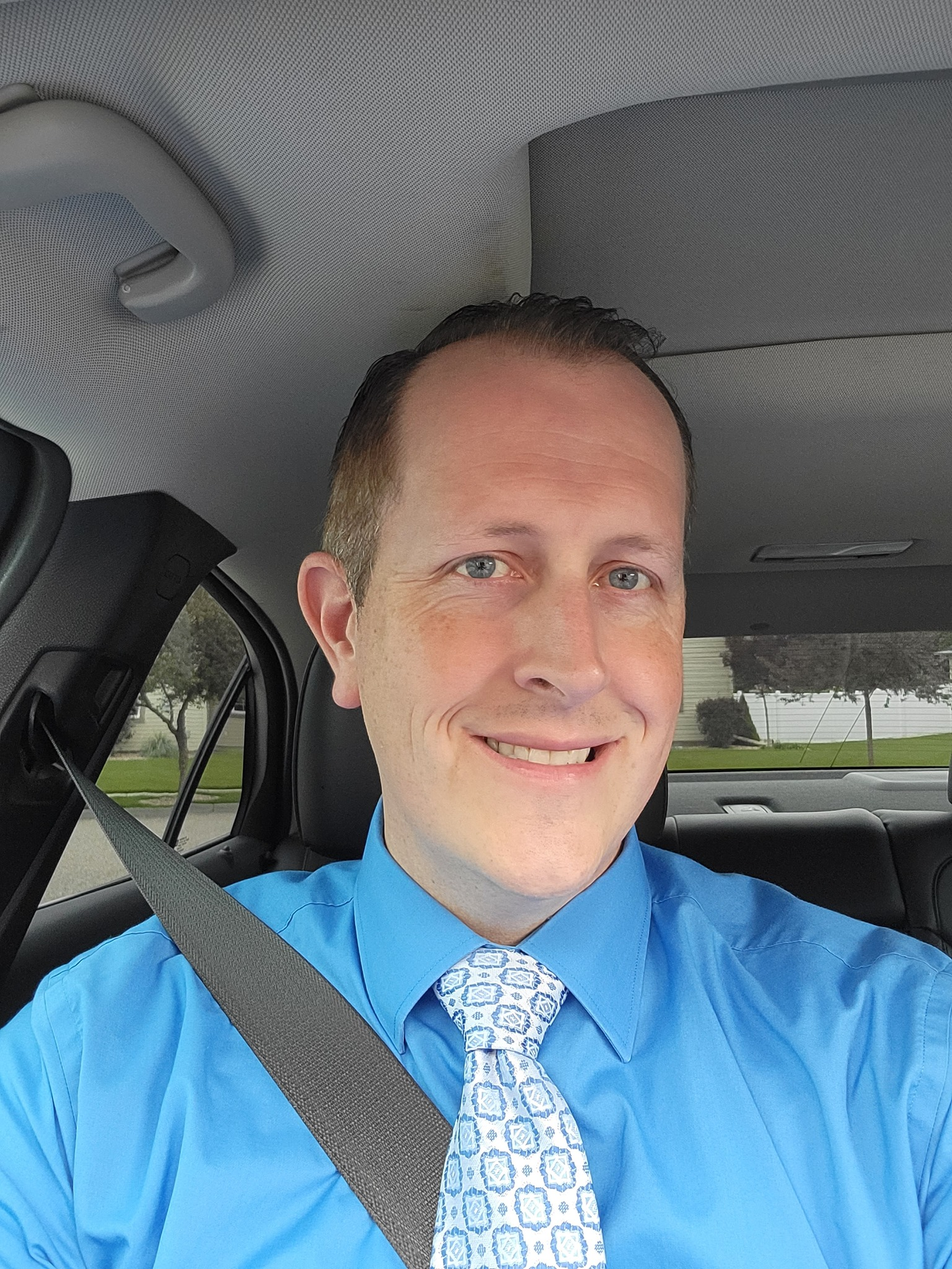
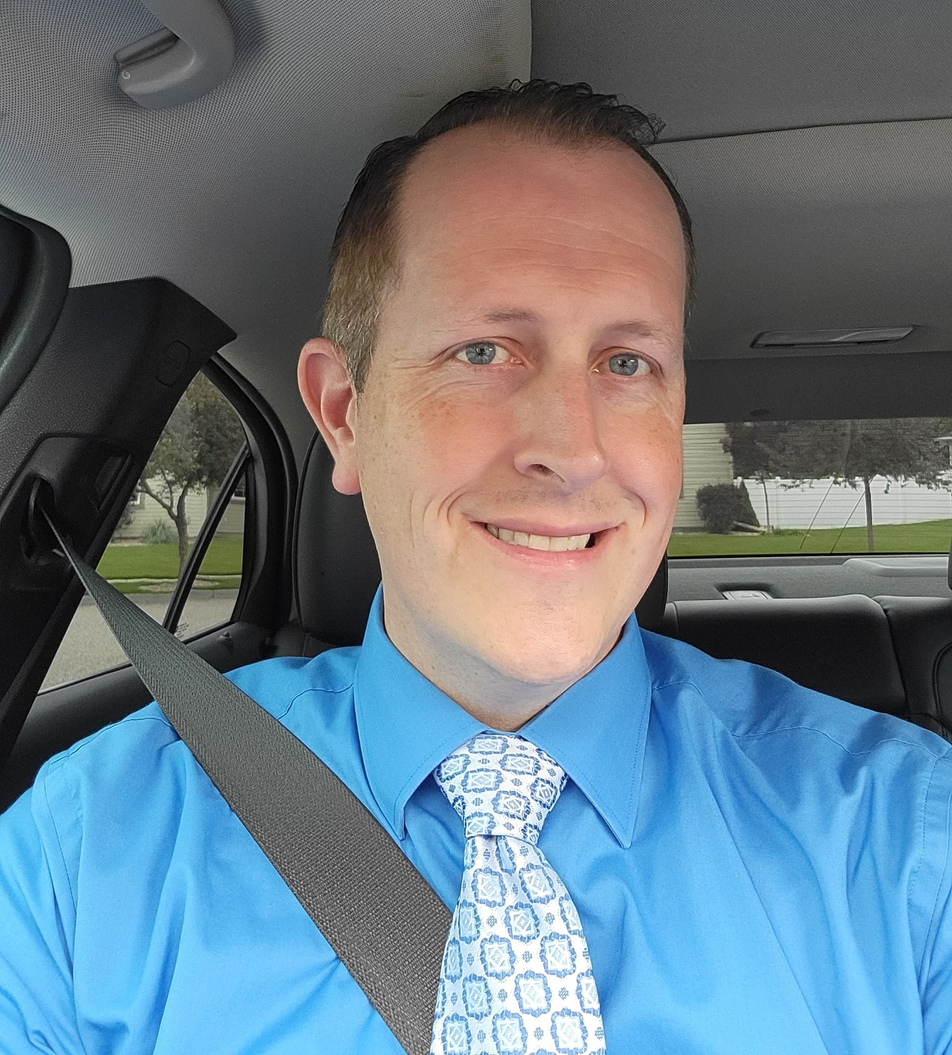
.

diff --git a/personal-website/my_work.html b/personal-website/my_work.html
@@ -6,6 +6,7 @@
     <meta name="viewport" content="width=device-width, initial-scale=1.0">
     <title>Brandon Dallimore | Portfolio | My Work</title>
     <link rel="stylesheet" href="styles/style.css">
+    <link rel="icon" href="./images/Brandon-Dallimore-logos_white.png">
 <style>
 
 
@@ -73,7 +74,7 @@
 }
 
 .skills-img {
-    grid-column: 1/2;
+    grid-column: 3/4;
     grid-row: 1/2;
     margin-top: 10px;
     margin-right: 35px;
@@ -81,8 +82,8 @@
 }
 
 .skills-text {
-    grid-column: 3/4;
-
+    grid-column: 1/3;
+    grid-row: 1/2;
     color: white;
     font-size: 1em;
     padding: 10px;
@@ -108,8 +109,8 @@
 
         <div class="intro">
             <div class="intro-text">
-                <h1> some of my skills</h1>
-                <p> some of my skills</p>
+                <h1> My skills and work!</h1>
+                <p>I have a very diverse range of skills. Below, are some of my favorites. I have worked on several projects. Because of the sensitivity and the companies I have done these projects for, I will provide you links to them upon request. Please feel free to reach out tell me in various ways as described on my contact page. I look forward hearing from you</p>
             </div>
             <div class="intro-img">
                 <img src="images/skills1.jpg" 
@@ -127,7 +128,7 @@
             </div>
 
             <div class="skills-text">
-                <p>some of my skills</p>
+                <p>I have produced several games in different programming languages. I still have much to learn but I'm excited what the future has in store. Information technology will always have a place in my heart. I have provided computer support to well-known and respected companies. One of my prouder moments was when I helped prevent a whole hospital network from going offline</p>
             </div>
         </div>
 
@@ -143,9 +144,7 @@
             </div>
 
             <div class="skills-text">
-                <p>some of my skills
-
-                </p>
+                <p>I have been a part of many film productions. I have done projects that have put me in front of the camera and behind the camera. I have worked on productions that are as small as student films and as large as big screen productions. I have also worked on GoDaddy and Doritos commercials.</p>
             </div>
         </div>
 
@@ -160,9 +159,7 @@
             </div>
 
             <div class="skills-text">
-                <p> some of my skills
-
-                </p>
+                <p>You have heard of that saying, "Find a job you love, and you'll never work a day in your life." Voice acting is that job for me. I can perform voices that are low or high pitch, clear or raspy, dark or cheerful. Some of my favorite voices I do include, Gollum/Smeagol, Stitch, Venom, Sean Connery, and the 90s movie trailer announcer voice. I can also do a spot on Elmo voice, even though I don't like to admit that.</p>
             </div>
         </div>
 

diff --git a/personal-website/index.html b/personal-website/index.html
@@ -23,7 +23,7 @@
     </header>
     <div id="hero">
         <div id="hero-box">
-            <img id="Brandon" src="images/profile.jpg" alt="Brandon Dallimore">
+            <img id="Brandon" src="images/profile2.jpg" alt="Brandon Dallimore">
         </div>
         <section id="hero-msg">
             <h1 class="home-title">Brandon Dallimore</h1>
@@ -49,11 +49,11 @@
             <h2>Voice Acting</h2>
         </section>
         <div id="background"></div>
-        <img class="mountains" src="images/network.webp" alt="Networking">
+        <img class="mountains" src="images/tech.png" alt="Networking">
         <section class="msg">
             <h2>A little about me</h2>
             <p>People always tell me that my ability to learn quickly, work hard and being personable, and be liked by everyone makes me a great employee. Indeed, I've been successful at nearly everything I've done. I am a hardworking and very determined individual. I make things happen. I am a go-getter; I am motivated by success. I loved pushing myself and learning new things! When someone says I can't do something, I will do everything I am able to, I show them that I can. I am always on time. I presume with your company, customer service is a top priority and that is what helps drive your company. In every one of my jobs, I have always tried to make people comfortable around me and help them with anything that I can. I believe having exceptional customer service skills is great quality to have and is one that companies, along with yours, really looks for. I know I would be an asset to your company. Thank you for your time and consideration.  </p>
-            <a class='join' href="contact.html">Contact</a>
+            <a class='join' href="mailto:bdallimore24@gmail.com">Contact</a>
         </section>
     </main>
     <footer>

diff --git a/personal-website/styles/style.css b/personal-website/styles/style.css
@@ -62,7 +62,7 @@ body {
   grid-row: 2/3;
 }
 
-.card-img, .mountains {
+.card-img {
   width: 100%;
 }
            
@@ -170,6 +170,8 @@ h4 {
 
 
 
+
+
 .join {
   color: rgb(255, 255, 255);
   text-decoration: none;
@@ -223,9 +225,11 @@ main section img {
 }
 
 .mountains {
-  grid-column: 2/7;
-  grid-row: 5/8;
-  box-shadow: 5px 5px 10px #2c8992;
+  grid-column: 1/4;
+  grid-row: 3/15;
+  box-shadow: 5px 0px 10px #2c8992;
+  width:795px;
+  height: 725px;
 }
 
 
